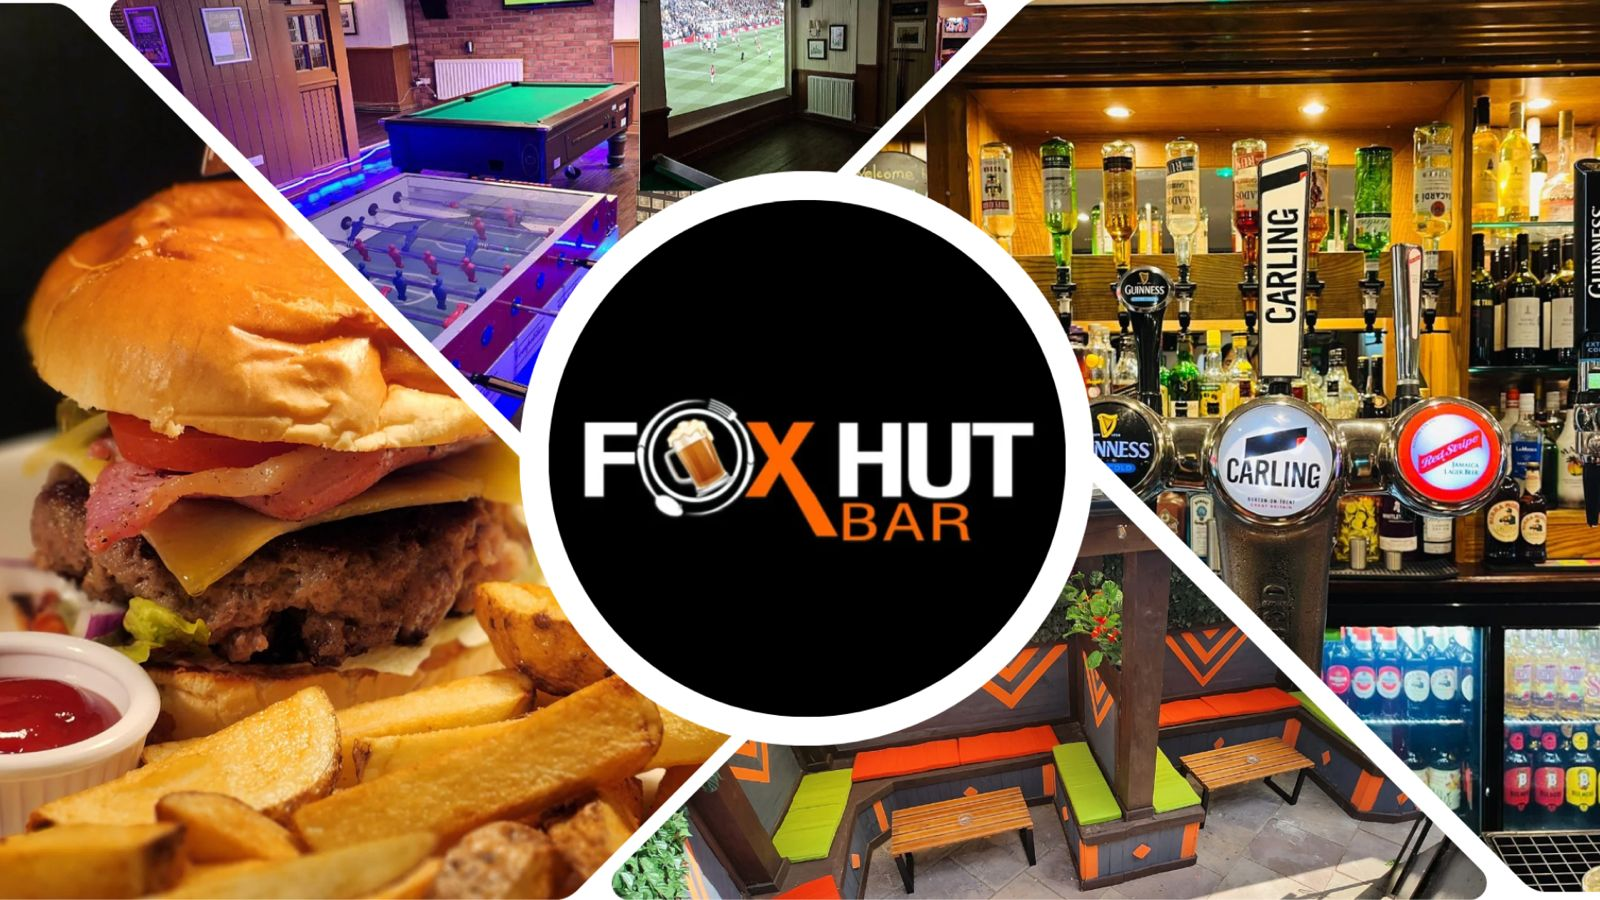
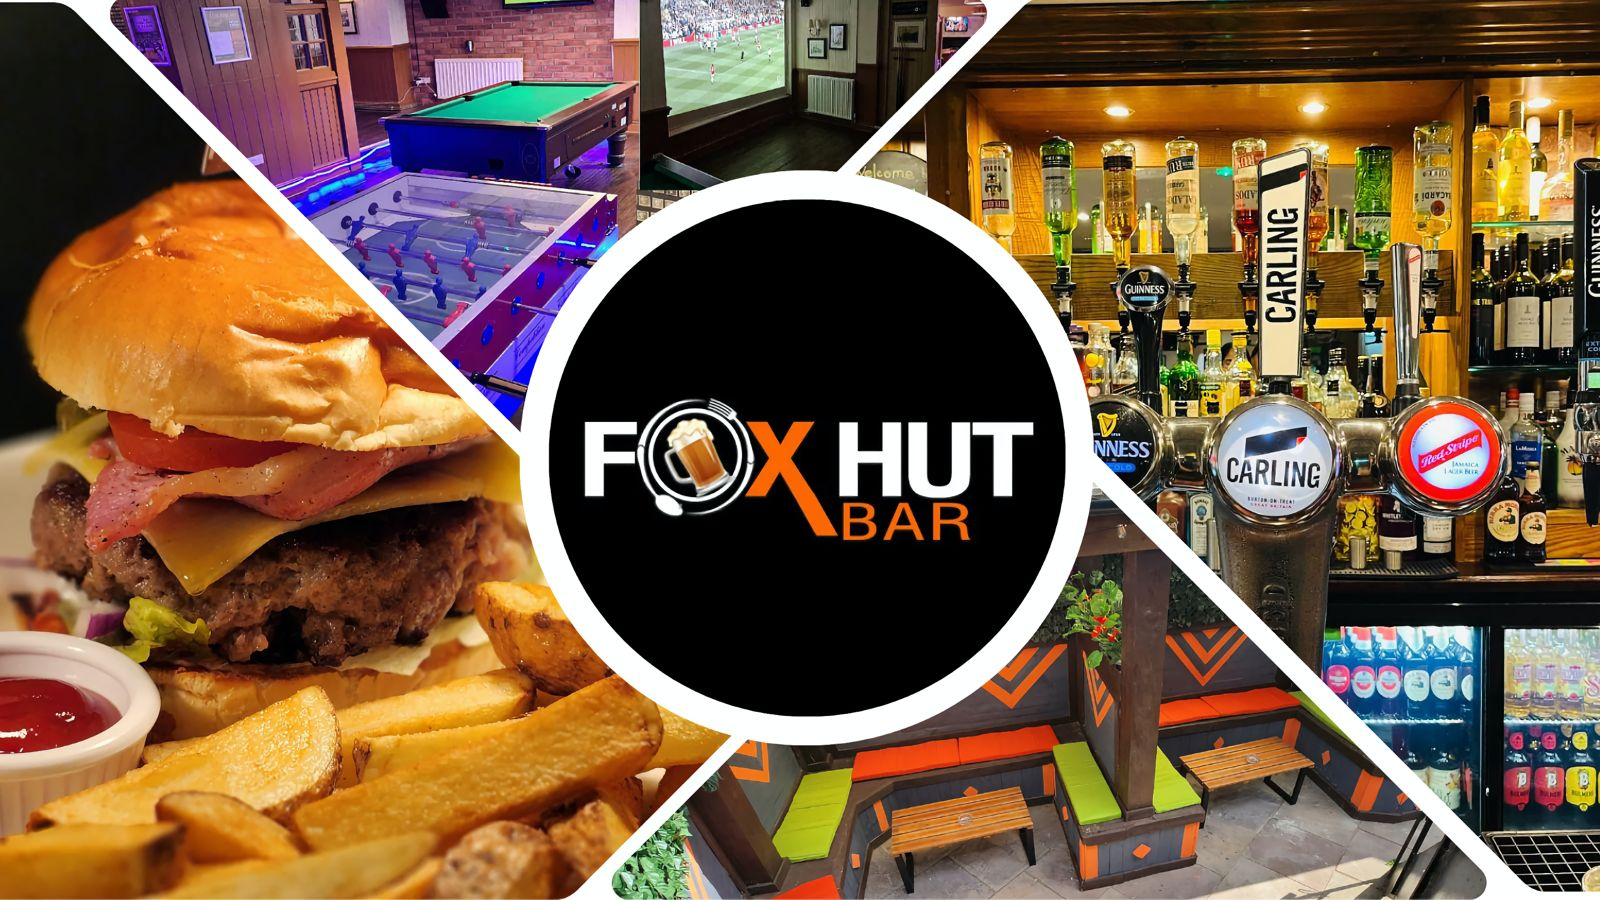
added new bannar

diff --git a/src/pages/index.js b/src/pages/index.js
@@ -31,7 +31,7 @@ export default function Home() {
           alt=""
         /> */}
         <img
-          className="h-[600px] w-full sm:h-[1050px]  mx-auto"
+          className="h-[600px]  w-full sm:w-auto lg:h-[1050px] 2xl:h-[1749px]  mx-auto"
           src="/images/foxhutHeroBg1.png"
           alt=""
         />
